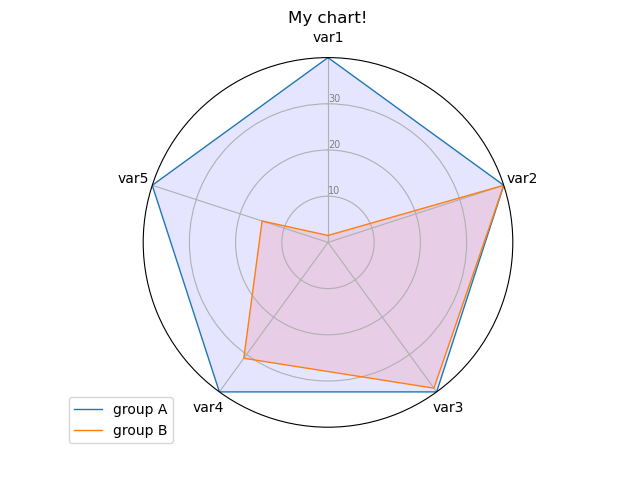
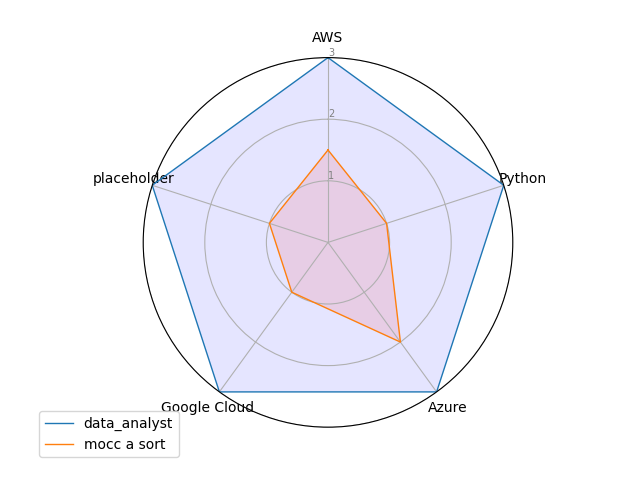
aggiornato il grafico e il suo label

diff --git a/lib/grafico.py b/lib/grafico.py
@@ -3,15 +3,15 @@ from math import pi
 import matplotlib.pyplot as plt
 
 
-def plot():
+def plot(role):
     # DATA SET
     df = pd.DataFrame({
-        'group': ['Data Analyst', 'Tu, mocc a sort'],
-        'AWS': [40, 1.5],
-        'Python': [40, 40],
-        'Azure': [40, 39],
-        'Google Cloud': [40, 31],
-        'placeholder': [40, 15]
+        'group': ['A', 'B'],
+        'AWS': [3, 1.5],
+        'Python': [3, 1],
+        'Azure': [3, 2],
+        'Google Cloud': [3, 1],
+        'placeholder': [3, 1]
     })
 
     # CREAZIONE BACKGROUND PT.1
@@ -36,29 +36,29 @@ def plot():
 
     # DISEGNAMO LE ETICHETTE
     ax.set_rlabel_position(0)
-    plt.yticks([10, 20, 30], ["10", "20", "30"], color="grey", size=7)
-    plt.ylim(0, 40)
+    plt.yticks([1, 2, 3], ["1", "2", "3"], color="grey", size=7)
+    plt.ylim(0, 3)
 
     # aggiungi argomenti pt.2
 
     # IND1
     values = df.loc[0].drop("group").values.flatten().tolist()
     values += values[:1]
-    ax.plot(angoli, values, linewidth=1, linestyle='solid', label="group A")
+    ax.plot(angoli, values, linewidth=1, linestyle='solid', label=f"{role}")
     ax.fill(angoli, values, 'b', alpha=0.1)
 
     # IND2
     values = df.loc[1].drop("group").values.flatten().tolist()
     values += values[:1]
-    ax.plot(angoli, values, linewidth=1, linestyle='solid', label="group B")
+    ax.plot(angoli, values, linewidth=1, linestyle='solid', label="mocc a sort")
     ax.fill(angoli, values, 'r', alpha=0.1)
 
     # AGGIUNGIAMO LEGGENDA
-    plt.legend(loc='upper right', bbox_to_anchor=(0.1, 0.1))
+    plt.legend(loc='lower left', bbox_to_anchor=(-0.3, -0.1))
 
     # PER VEDERE IL GRAFICO
-#    plt.show()
-    # plot title
-    # plt.title('My chart!')
+    # plt.show()
 
+    # plt.title('My chart!')
+# plot(role)
     plt.savefig('static/images/chart.png')

diff --git a/app.py b/app.py
@@ -100,7 +100,7 @@ def questionario(skill: str, role: str):
         elif skill == 'GOOGLE CLOUD':
             counter_tot = popola_counter()
 
-            plot()
+            plot(role)
 
             return render_template('valutazioni.html', quiz_tot=quiz_tot, counter_tot=counter_tot)
 
